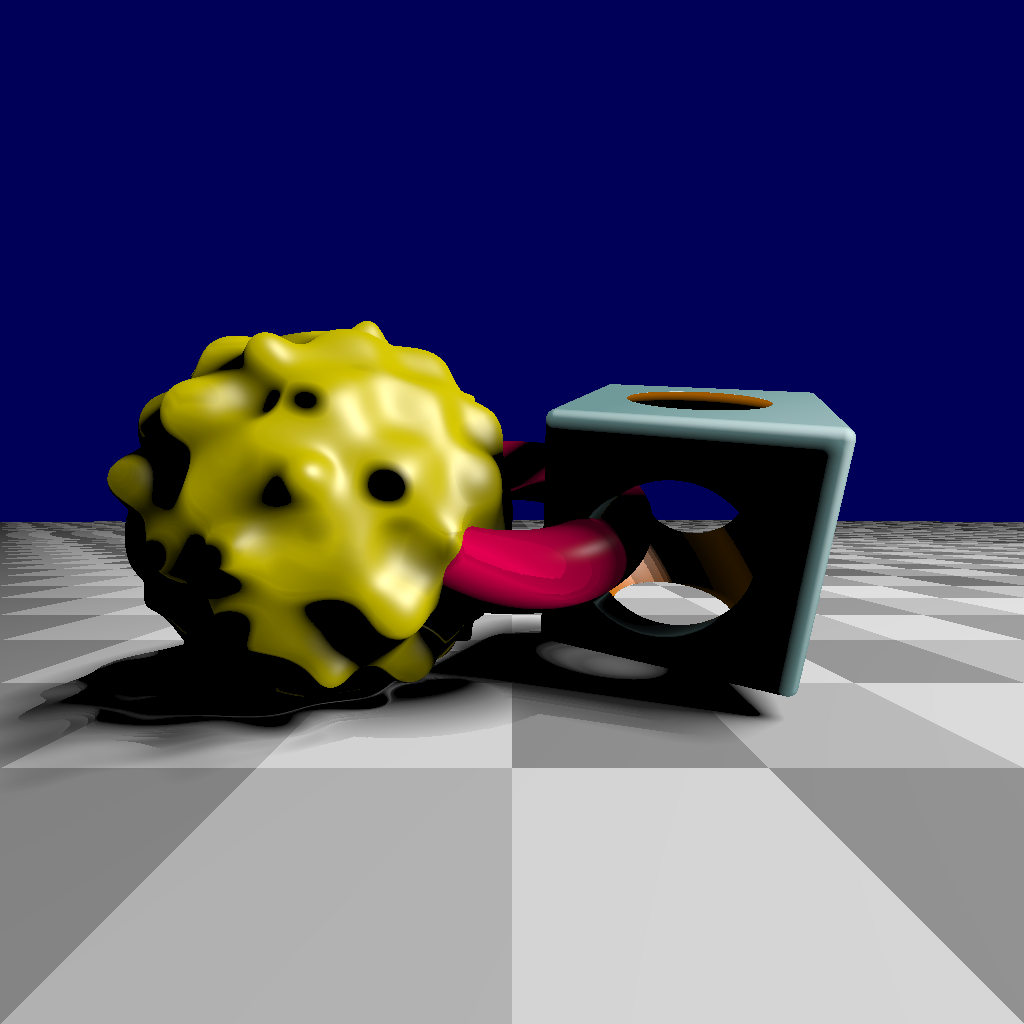
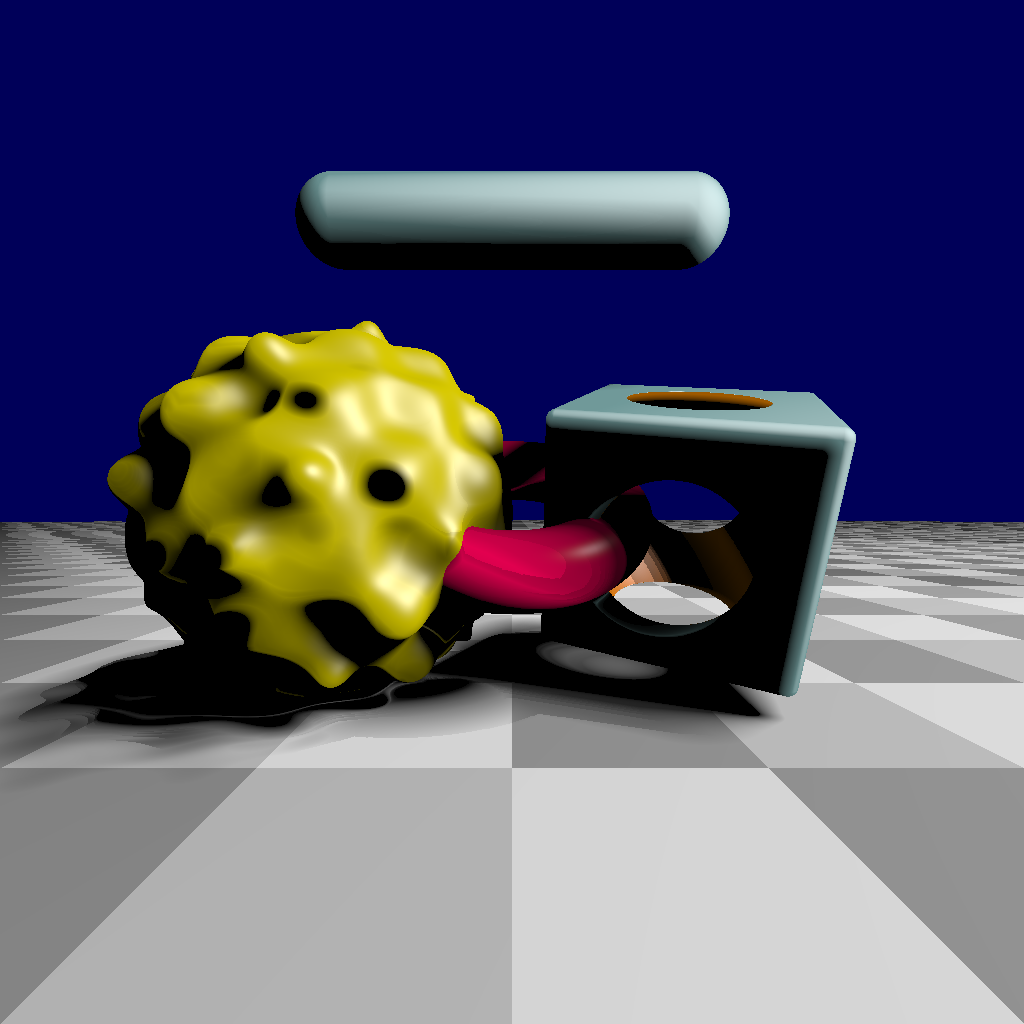
capsule

Changed region(s): [[0.2812, 0.1562, 0.7188, 0.2812]]

diff --git a/src/main.rs b/src/main.rs
@@ -56,8 +56,18 @@ fn world() -> Sdf {
     let torus = sd_torus(0.6, 0.2, v3(0.0), tr, red);
 
     union(
-        union(union(floor, sphere_gold), difference(cube, sphere_red)),
-        torus,
+        union(
+            union(union(floor, sphere_gold), difference(cube, sphere_red)),
+            torus,
+        ),
+        sd_capsule(
+            0.25,
+            Vec3::new(0.0, 1.7, 0.0),
+            Vec3::new(-1.0, 0.0, 0.0),
+            Vec3::new(1.0, 0.0, 0.0),
+            Affine3A::IDENTITY,
+            teal,
+        ),
     )
 }
 

diff --git a/src/sdf.rs b/src/sdf.rs
@@ -47,3 +47,20 @@ pub fn sd_torus(
         Surface::new(q.length() - radius2, material.clone())
     })
 }
+
+pub fn sd_capsule(
+    radius: f32,
+    center: Vec3,
+    a: Vec3,
+    b: Vec3,
+    transform: Affine3A,
+    material: MaterialFn,
+) -> Sdf {
+    Box::new(move |p| {
+        let p = transform.transform_point3(p - center);
+        let pa = p - a;
+        let ba = b - a;
+        let h = (pa.dot(ba) / ba.dot(ba)).clamp(0.0, 1.0);
+        Surface::new((pa - ba * h).length() - radius, material.clone())
+    })
+}
